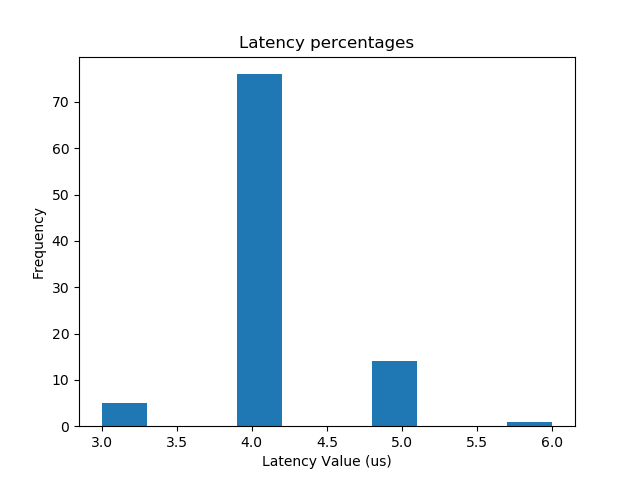
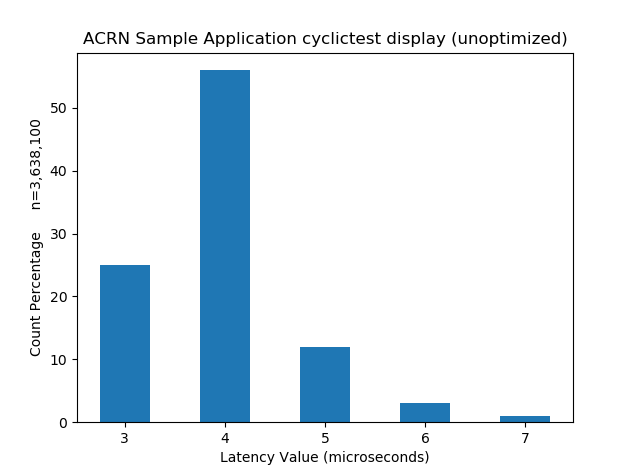
doc: update sample app guide
Address comments from DX reviews, and update the cyclictest histogram
output (improvements from PR #8026)

Changed region(s): [[0.03, 0.0592, 0.929, 0.9767]]

diff --git a/doc/getting-started/sample-app.rst b/doc/getting-started/sample-app.rst
@@ -360,8 +360,15 @@ and generate new launch scripts for this Sample Application.
       :width: 400px
 
 
-#. We're done configuring the sample application scenario. Exit the configurator
-   by clicking the **X** in the top right corner).
+#. We're done configuring the sample application scenario. When you saved the
+   scenario, the configurator did a re-verification of all the option settings
+   and found no issues, so all the error indicators are now cleared.
+
+   Exit the configurator by clicking the **X** in the top right corner).
+
+   .. image:: images/samp-image015a.png
+      :class: drop-shadow
+      :align: center
 
 You can see the saved scenario and launch scripts in the working
 directory:
@@ -534,11 +541,11 @@ Install and Run ACRN on the Target System
      sudo ~/acrn-work/launch_user_vm_id1.s
 
 #. The launch script will start up the HMI_VM and show an Ubuntu login
-   prompt in your ssh session and a graphical login on your target's HDMI
-   monitor.
+   prompt in your ssh session (and a graphical login on your target's HDMI
+   monitor).
 
    Login to the HMI_VM as **root** user (not acrn) using your development
-   systems ssh session:
+   system's ssh session:
 
    .. code-block:: console
       :emphasize-lines: 1
@@ -565,6 +572,7 @@ Install and Run ACRN on the Target System
 #. Run the HMI VM Sample Application userApp (in the background) and histapp.py::
 
      ./userApp &
+
      python3 histapp.py
 
    At this point, the HMI_VM is running and we've started the HMI parts of
@@ -599,9 +607,10 @@ Install and Run ACRN on the Target System
       (acrn-guest)root@ubuntu:~#
 
 
-#. Run the cyclictest (in the background) and the rtAPP in this RT_VM::
+#. Run the cyclictest (in the background) and then the rtApp in this RT_VM::
 
      cyclictest -p 80 --fifo="./data_pipe" -q &
+
      ./rtApp
 
 Now the two parts of the sample application are running:
@@ -613,18 +622,20 @@ Now the two parts of the sample application are running:
 
 We can view this data displayed as a histogram:
 
-Option 1: Use a browser on the HMI VM using the target system console
-  Login to the HMI_VM on the target system's console. (If you want to
-  login as root, click on the "Not listed?" link under the username choices you
-  do see and enter the root username and password. Open the web browser to
-  http://localhost
-
-Option 2: Use a browser on your development system
+Option 1: Use a browser on your development system
   Open a web-browser on your development computer to the
   HMI_VM IP address we found in an earlier step (e.g., http://10.0.0.100).
 
+Option 2: Use a browser on the HMI VM using the target system console
+  Login to the HMI_VM on the target system's console. (If you want to
+  login as root, click on the "Not listed?" link under the username choices you
+  do see and enter the root username and password.) Open the web browser to
+  http://localhost
+
 Refresh the browser. You'll see a histogram graph showing the
-percentage of latency time intervals reported by cyclictest.
+percentage of latency time intervals reported by cyclictest. The histogram will
+update every time you refresh the browser.  (Notice the count of samples
+increases as reported on the vertical axis label.)
 
 .. figure:: images/samp-image018.png
    :class: drop-shadow
@@ -634,6 +645,9 @@ percentage of latency time intervals reported by cyclictest.
 
 The horizontal axis represents the latency values in microseconds, and the
 vertical axis represents the percentage of occurrences of those values.
+
+Congratulations
+***************
 
 That completes the building and running of this sample application. You
 can view the application's code in the
